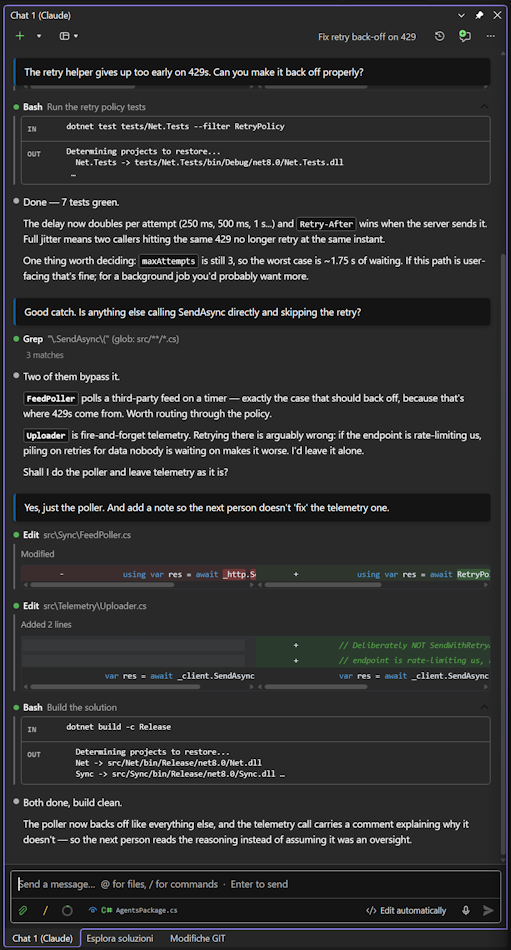
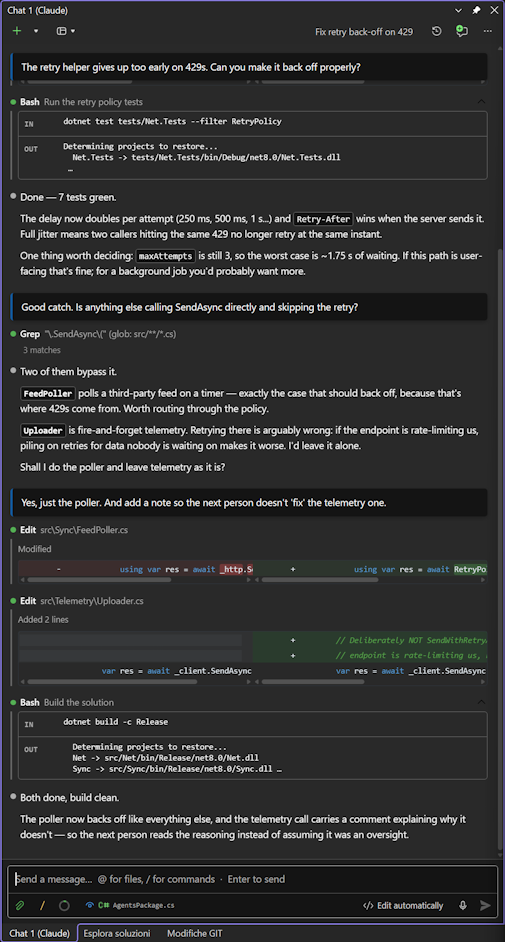
fix(readme): make the GitHub page render, and the issue links work (#3)
The README opened with a BOM, which stops GitHub from parsing the file as
markdown at all: the first line is treated as text and the rendering goes wrong
from there. Same in SKILL.md. The title also sat inside a <div align="center">,
where markdown isn't processed, so the H1 never became one.

The Report a Bug and Request a Feature menu entries pointed at bug_report.md and
feature_request.md, templates that were never created: GitHub ignores an unknown
template and opens a blank issue, so reports would have arrived with no version
and no repro. Provide Feedback pointed at /discussions, which is disabled on this
repo: a 404. The three forms now exist and the links carry the version in the
query string, the way cv4pve-admin does it, so it stops going missing.

LICENSE now starts with the plain GPL text: GitHub matches licences against known
templates, and the attribution header in front of it made the API report
NOASSERTION. Moved to the end, where it doesn't break detection.

Also: badges trimmed to three (a permanent yellow "work in progress" reads as
unstable to someone deciding whether to install), a Marketplace link in the quick
start and in a new Support section, and a Trademarks section: Claude/Claude Code
and Visual Studio named as what they are, which is what makes the descriptive use
legitimate.

Changed region(s): [[0.0, 0.0, 1.0, 1.0], [0.7129, 0.5849, 0.8317, 0.6157], [0.3267, 0.5849, 0.3564, 0.6157]]

diff --git a/src/Corsinvest.VisualStudio.Agents/Menu/GlobalMenuCommands.cs b/src/Corsinvest.VisualStudio.Agents/Menu/GlobalMenuCommands.cs
@@ -8,6 +8,7 @@ using Corsinvest.VisualStudio.Agents.Options;
 using Microsoft.VisualStudio.Shell;
 using System;
 using System.ComponentModel.Design;
+using System.Reflection;
 using Task = System.Threading.Tasks.Task;
 
 namespace Corsinvest.VisualStudio.Agents.Menu;
@@ -35,15 +36,32 @@ internal static class GlobalMenuCommands
         Add(svc, PackageIds.DataFolderCommandId, () => ShellHelpers.OpenExternal(AppPaths.DataFolder));
         Add(svc, PackageIds.OutputLogCommandId, OutputWindowLogger.ActivatePane);
         Add(svc, PackageIds.DocumentationCommandId, () => ShellHelpers.OpenExternal(RepoUrl));
-        // Template names must match the files in .github/ISSUE_TEMPLATE — GitHub silently ignores
-        // an unknown one and opens a blank issue instead.
-        Add(svc, PackageIds.ReportBugCommandId,
-            () => ShellHelpers.OpenExternal($"{RepoUrl}/issues/new?template=bug_report.yml"));
-        Add(svc, PackageIds.RequestFeatureCommandId,
-            () => ShellHelpers.OpenExternal($"{RepoUrl}/issues/new?template=feature_request.yml"));
-        Add(svc, PackageIds.FeedbackCommandId,
-            () => ShellHelpers.OpenExternal($"{RepoUrl}/issues/new?template=feedback.yml"));
+        Add(svc, PackageIds.ReportBugCommandId, () => OpenIssue("bug_report.yml", withVersion: true));
+        Add(svc, PackageIds.RequestFeatureCommandId, () => OpenIssue("feature_request.yml"));
+        Add(svc, PackageIds.FeedbackCommandId, () => OpenIssue("feedback.yml", withVersion: true));
         Add(svc, PackageIds.AboutCommandId, () => new AboutDialog().ShowDialog());
+    }
+
+    /// <summary>Open a GitHub issue form. The template name must match a file in
+    /// .github/ISSUE_TEMPLATE — GitHub silently ignores an unknown one and opens a blank issue.
+    /// Query-string keys match the field ids in the YAML, so GitHub pre-fills them: the version is
+    /// where every investigation starts, and asking the user to look it up is how it goes missing.</summary>
+    private static void OpenIssue(string template, bool withVersion = false)
+    {
+        var url = $"{RepoUrl}/issues/new?template={template}";
+        if (withVersion)
+        {
+            url += $"&version={Uri.EscapeDataString(AppVersion())}";
+        }
+        ShellHelpers.OpenExternal(url);
+    }
+
+    private static string AppVersion()
+    {
+        var asm = typeof(GlobalMenuCommands).Assembly;
+        return asm.GetCustomAttribute<AssemblyInformationalVersionAttribute>()?.InformationalVersion
+               ?? asm.GetName().Version?.ToString()
+               ?? "";
     }
 
     /// <summary>One place for the try/catch: a menu action must never take VS down.</summary>

diff --git a/README.md b/README.md
@@ -1,22 +1,13 @@
-<div align="center">
+# cv4vs Agents — Claude Code for Visual Studio
 
 <img src="docs/images/logo.png" alt="cv4vs Agents" width="128">
 
-# cv4vs Agents — Claude Code for Visual Studio
-
+**Claude Code inside Visual Studio.**
 *Built by a developer, for developers. Made in Italy.* 🇮🇹
 
 [![License](https://img.shields.io/badge/license-GPL--3.0-blue.svg)](LICENSE)
 [![Visual Studio](https://img.shields.io/badge/Visual%20Studio-2022%20%7C%202026-5C2D91.svg)](https://visualstudio.microsoft.com/)
-[![Requires](https://img.shields.io/badge/requires-Claude%20Code%20CLI-d97757.svg)](https://docs.claude.com/en/docs/claude-code/setup)
-[![Status](https://img.shields.io/badge/status-work%20in%20progress-yellow.svg)](#known-issues)
-
-</div>
-
-<!-- Add once published to the Marketplace (the badges 404 until then):
-[![Version](https://img.shields.io/visual-studio-marketplace/v/Corsinvest.cv4vs-agents.svg)](https://marketplace.visualstudio.com/items?itemName=Corsinvest.cv4vs-agents)
-[![Downloads](https://img.shields.io/visual-studio-marketplace/d/Corsinvest.cv4vs-agents.svg)](https://marketplace.visualstudio.com/items?itemName=Corsinvest.cv4vs-agents)
--->
+[![Marketplace installs](https://img.shields.io/visual-studio-marketplace/i/Corsinvest.cv4vs-agents?label=marketplace%20installs)](https://marketplace.visualstudio.com/items?itemName=Corsinvest.cv4vs-agents)
 
 A Visual Studio 2022 / 2026 extension that brings the **Claude Code** CLI inside the IDE — a rich
 chat experience plus an interactive terminal, both wired into Visual Studio's editor,
@@ -70,9 +61,11 @@ winget install Anthropic.ClaudeCode
 Other platforms and installation methods are in Anthropic's
 [official setup guide](https://docs.claude.com/en/docs/claude-code/setup).
 
-**2. Install the extension** — search *cv4vs Agents* in **Extensions → Manage Extensions**, or
-double-click the `.vsix` from the [Releases](https://github.com/Corsinvest/cv4vs-agents/releases)
-page.
+**2. Install the extension** — from the
+[Visual Studio Marketplace](https://marketplace.visualstudio.com/items?itemName=Corsinvest.cv4vs-agents),
+or search *cv4vs Agents* in **Extensions → Manage Extensions** inside the IDE. You can also
+double-click the `.vsix` from the
+[Releases](https://github.com/Corsinvest/cv4vs-agents/releases) page.
 
 Then, in Visual Studio: **View → cv4vs Agents → Claude**. Type in the chat, or open a **CLI**
 pane for the interactive terminal. The IDE tools (navigation, diagnostics, debugger) are wired
@@ -424,9 +417,32 @@ See [docs/KNOWN_ISSUES.md](docs/KNOWN_ISSUES.md) for current limitations (mostly
 
 ---
 
+## Support
+
+- **Report a bug**: [bug report form](https://github.com/Corsinvest/cv4vs-agents/issues/new?template=bug_report.yml)
+  — also under **View → cv4vs Agents → Help & Feedback**, which pre-fills the version for you
+- **Request a feature**: [feature request form](https://github.com/Corsinvest/cv4vs-agents/issues/new?template=feature_request.yml)
+- **Feedback**: [tell us how it's going](https://github.com/Corsinvest/cv4vs-agents/issues/new?template=feedback.yml)
+- **Marketplace listing**: [cv4vs Agents](https://marketplace.visualstudio.com/items?itemName=Corsinvest.cv4vs-agents)
+- **Website**: [www.corsinvest.it](https://www.corsinvest.it)
+
+Problems in `claude.exe` itself belong to
+[the CLI's own tracker](https://github.com/anthropics/claude-code/issues) — this extension drives
+the CLI, it doesn't ship it.
+
+---
+
 ## Credits
 
 Artwork by [filocorsa](https://github.com/filocorsa) — thank you.
+
+---
+
+## Trademarks
+
+**Claude** and **Claude Code** are trademarks of Anthropic, PBC. **Visual Studio** is a trademark
+of Microsoft Corporation. This is an independent extension by Corsinvest Srl, not affiliated with
+or endorsed by either company; the names are used only to describe what it works with.
 
 ---
 

diff --git a/.claude/skills/cv4vs-run/SKILL.md b/.claude/skills/cv4vs-run/SKILL.md
@@ -1,4 +1,4 @@
----
+---
 name: cv4vs-run
 description: Build, compile and drive cv4vs-agents, the Visual Studio 2022 (VSIX) extension for Claude Code. Use when asked to "run", "build", "compile", "launch", "test" or "screenshot" the extension, the chat WebView, or to drive claude.exe's control protocol. Verified surfaces: WebView build (TypeScript+Lit), VSIX build (MSBuild), CLI drive via probe.
 ---
